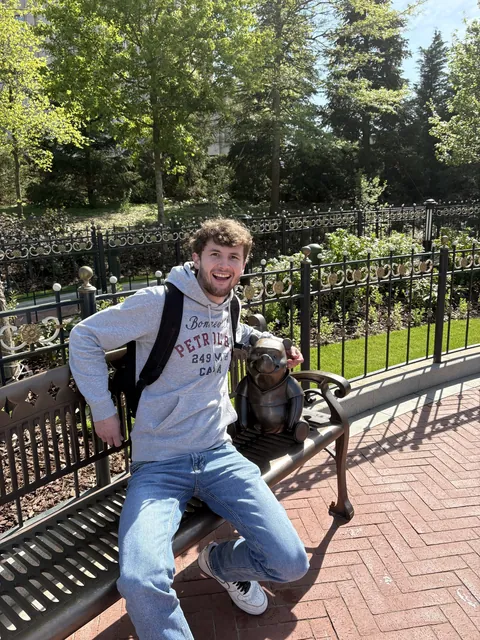
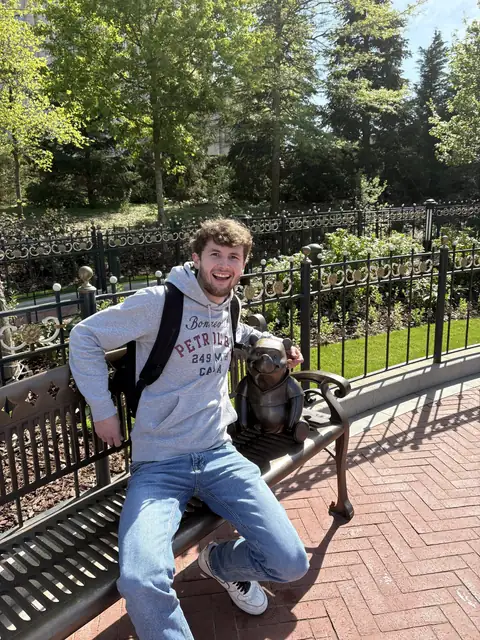
Final pre-release fixes: loading, anchors, focus and landscape phones
- The no-JavaScript fallback now waits for DOMContentLoaded instead of a fixed
  4-second timer, so slow connections no longer flip the page back and forth.
- GSAP loads only on the two pages that use it; the shared bundle is ~2 KB.
- Links to a section on another page land on that section (smooth scrolling
  only for jumps started on the page itself).
- The ink plaque button gets a visible focus ring on parchment.
- Preload the two text fonts; add 800/1100 px image variants for phones.
- Landscape phones: crew prints, the cruise plate, the privacy title and the
  404 actions fit on one screen.
- Small wraps at 1024 px (journal button, food key, footer) and 11 px map tabs.

Claude-Session: https://claude.ai/code/session_01KrrQLAre26mHMXGxZ97p7Q

diff --git a/src/styles/global.css b/src/styles/global.css
@@ -45,10 +45,13 @@
 }
 
 html {
-  scroll-behavior: smooth;
   scroll-padding-top: calc(var(--header-h) + 1rem);
   -webkit-text-size-adjust: 100%;
 }
+/* Glide only for jumps the visitor starts on this page (the clicked link keeps focus).
+   Arriving from another page with a #section in the URL then lands on it directly,
+   instead of a smooth scroll that late-loading content can interrupt. */
+html:focus-within { scroll-behavior: smooth; }
 
 body {
   background-color: var(--jungle);
@@ -368,7 +371,7 @@ a:hover .photo-grade,
   outline: 2px solid var(--gold-bright);
   outline-offset: 3px;
 }
-.surface-paper :focus-visible { outline-color: var(--mahogany); }
+.surface-paper :focus-visible:not(.btn) { outline-color: var(--mahogany); }
 
 main:focus { outline: none; }
 
@@ -387,7 +390,7 @@ main:focus { outline: none; }
 .skip-link:focus { transform: translateY(0); }
 
 @media (prefers-reduced-motion: reduce) {
-  html { scroll-behavior: auto; }
+  html, html:focus-within { scroll-behavior: auto !important; }
   *, *::before, *::after {
     animation-duration: 0.01ms !important;
     animation-iteration-count: 1 !important;

diff --git a/scripts/optimize-images.py b/scripts/optimize-images.py
@@ -9,13 +9,15 @@ for source in [public / 'group-photo.jpg', *sorted((public / 'photos').rglob('*.
     relative = source.relative_to(public)
     with Image.open(source) as original:
         image = ImageOps.exif_transpose(original).convert('RGB')
-        widths = sorted({min(w, image.width) for w in (480, 960, 1600)})
+        widths = sorted({min(w, image.width) for w in (480, 800, 1100, 1600)})
+        # Busy, detailed shots compress poorly; a lower quality is not visible on them
+        quality = 65 if source.stem == 'pooh' else 80
         variants = []
         for width in widths:
             height = round(image.height * width / image.width)
             output = Path('optimized') / relative.parent / f'{source.stem}-{width}.webp'
             (public / output).parent.mkdir(parents=True, exist_ok=True)
-            image.resize((width, height), Image.Resampling.LANCZOS).save(public / output, 'WEBP', quality=80, method=6)
+            image.resize((width, height), Image.Resampling.LANCZOS).save(public / output, 'WEBP', quality=quality, method=6)
             variants.append({'src': output.as_posix(), 'width': width})
         metadata[relative.as_posix()] = {'width': image.width, 'height': image.height, 'variants': variants}
 Path('src/data/image-sizes.json').write_text(json.dumps(metadata, indent=2) + '\n')
